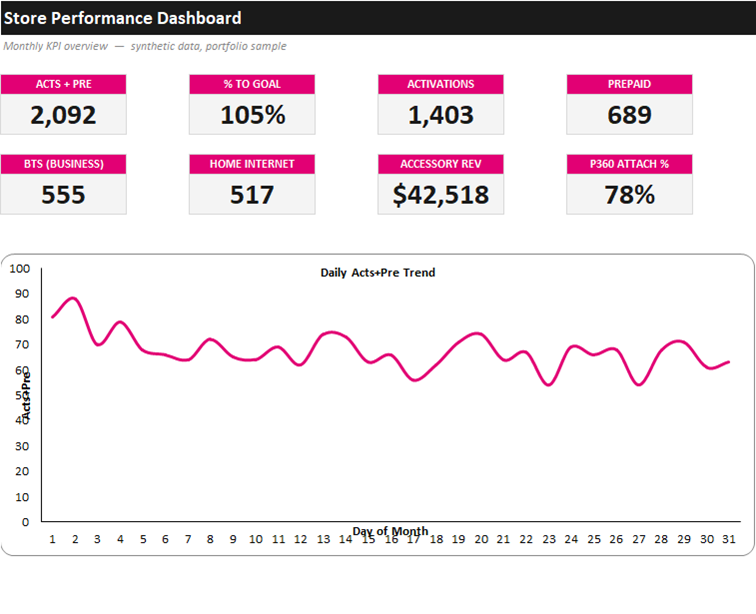
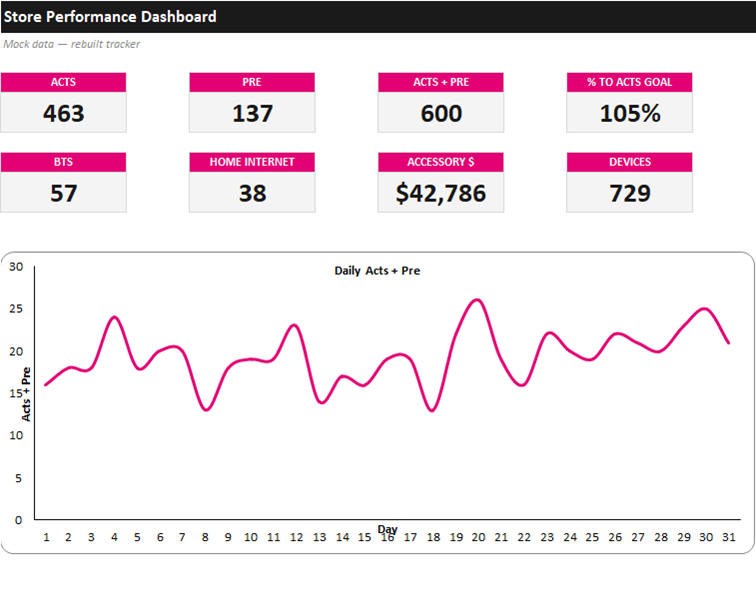
Update tracker card to the rebuilt version

diff --git a/index.html b/index.html
@@ -226,11 +226,12 @@
           <img src="assets/tmobile-dashboard.png" alt="T-Mobile Store Performance Dashboard" />
         </div>
         <div class="cbody">
-          <div class="ctitle"><h3>Store Performance Dashboard</h3><span class="badge code">Excel · GitHub</span></div>
-          <p class="cdesc">A 35-tab Excel reporting workbook: KPI cards, an auto-ranking team leaderboard
-            (<span class="mono">RANK</span> + color-scale heatmaps), and a daily-trend heatmap, all driven
-            by multi-sheet formulas. Rebuilt from an inherited tracker whose numbers the team couldn't
-            rely on, into reporting they actually use. <em>(Published with synthetic data.)</em></p>
+          <div class="ctitle"><h3>Store Performance Tracker</h3><span class="badge code">Excel · GitHub</span></div>
+          <p class="cdesc">The daily tracker I ran a retail store on, rebuilt: 36 tabs of validated
+            entry rolling up to KPI cards, a <span class="mono">RANK</span> leaderboard, a daily heatmap,
+            and month-to-goal. The version it replaced had 403 <span class="mono">#N/A</span> cells and
+            free-text device names entered a dozen ways; this one has zero errors and dropdown-only entry.
+            <em>(Published with mock data.)</em></p>
           <div class="stack">
             <span class="tag">Excel</span><span class="tag">Advanced formulas</span>
             <span class="tag">Conditional formatting</span><span class="tag">Data cleaning</span>
